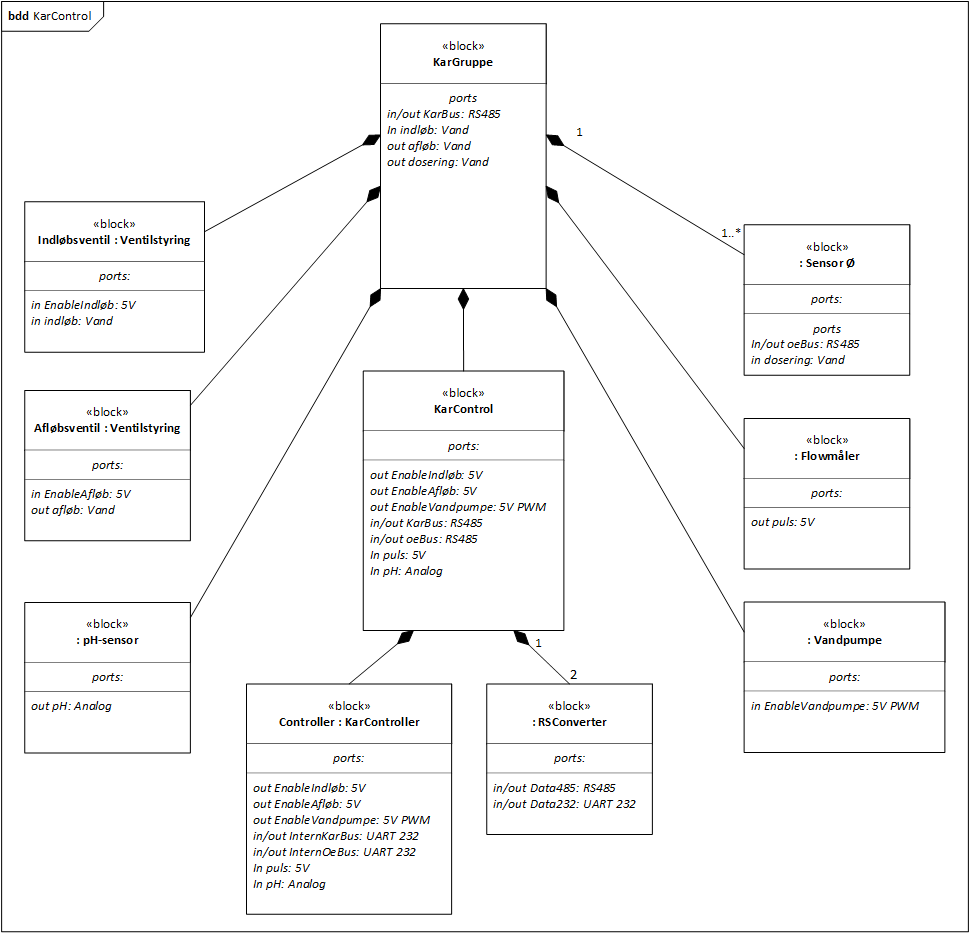
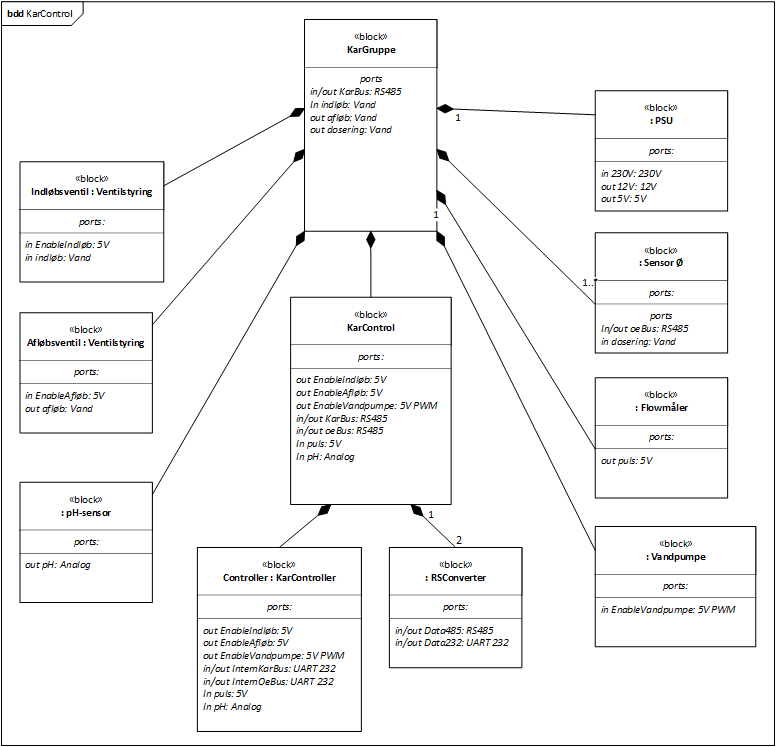
Travis CI

diff --git a/Systemarkitektur/KarControl/KarControl.tex b/Systemarkitektur/KarControl/KarControl.tex
@@ -21,6 +21,9 @@ Vandpumpen pumper vand fra karret ud til Sensor Ø’erne.
 \subsubsection{Flowmåler}
 Flowmåleren måler mængden af vand, som tilføres karret gennem Indløbsventilen.
 
+\subsubsection{PSU}
+PSU (Power Supply Unit) forsyner de andre blokke med 12V og 5V.
+
 \subsection{KarControl IBD}
 \systemIBD{0.82}{KarControl}{KarControl}
 
@@ -30,27 +33,34 @@ RSConverter konverterer mellem RS485 og UART 232 når der skal kommunikeres med 
 \subsubsection{RSOut}
 RSConverter konverterer mellem RS485 og UART 232 når der skal kommunikeres med Sensor Ø'er.
 
+\subsection{KarControlForsyning IBD}
+Der er lavet et separat forsynings IBD som viser forbindelserne fra blokken PSU til resten af blokkene og omverdenen.
+\begin{figure}[H]
+	\centering
+	\includegraphics[scale=0.7]{Systemarkitektur/KarControl/KarControlForsyning_IBD.png}
+	\label{fig:KarControlForsyning}
+	\caption{IBD over forsyningsforbindelser til KarControl}
+\end{figure}
+
 %\subsection{KarControl Allokeringsdiagram}
 %\systemAllokeringsDiagram{0.82}{KarControl}{KarControl}
 
+\fxnote{Forsyningsspændinger skal have tolerancer}
 \subsection{Signalbeskrivelser KarControl}
 \systemSignaler{KarControl} {
-KarBus				& RS485 bus til kommunikation mellem enheder & Binary 1 (OFF)
-																   (Voa-Vob<-200 mV)
-																   Binary 0 (ON)
-																  (Voa-Vob>+200 mV)	 	& Differentielt bussystem \\
-OeBus				& RS485 bus til kommunikation mellem enheder & Binary 1 (OFF)
-																   (Voa-Vob<-200 mV)
-																   Binary 0 (ON)
-																  (Voa-Vob>+200 mV)	 	& Differentielt bussystem \\
-Data485				& RS485 bus til kommunikation mellem enheder & Intern:SW-signal		& Internt signal fra RSconverter til KarGruppe \\
-Data232				& RS485 konverteret til logisk niveau		 & Intern:SW-signal 	& Konverteret signal fra RSconverter til Controller  \\
-EnableIndløb		& Signal til at lukke vand ind i kar		 & Logisk:0-5V			& Signal til styring af Indløbsventil   \\
-EnableAfløb			& Signal til at lukke vand ud af kar		 & Logisk:0-5V			& Signal til styring af Afløbsventil   \\
-EnableVandpumpe		& Signal til styring Vandpumpe		   	     & Logisk:PWM 0-5V 		& Signal til PWM-styring af Vandpumpe	\\
-Puls				& Takttæller af flow				   	 	 & Logisk:0-5V 			& Retursignal fra flowtæller \\
-pH					& Analog signal fra pH måler			 	 & Analog:-420mV-420mV  & Analogt sensorsignal \\
-Indløb				& vandstyring i kar							 & Vandflow   			& Vandtilførsel til karret \\
-Afløb				& vandstyring i kar	 						 & Vandflow  			& Vandtilafledning fra karret \\
-Dossering			& vandstyring til planter					 & Vandflow    			& Vandtilførsel til dosering \\
+KarBus				& RS485 bus til kommunikation mellem enheder &	 	& Differentielt bussystem  \\
+OeBus				& RS485 bus til kommunikation mellem enheder &	 	& Differentielt bussystem  \\
+Data485				& RS485 bus til kommunikation mellem enheder &	 	& internt signal   \\
+Data232				& RS485 konverteret til logisk niveau		 &	 	& Signal efter konvertering  \\
+EnableIndløb		& Signal til at lukke vand ind i kar		 & 0-5V	& Signal til at styre magnetventil   \\
+EnableAfløb			& Signal til at lukke vand ud af kar		 & 0-5V	& Signal til at styre magnetventil	\\
+EnableVandpumpe		& Signal til styring af vandpumpe			   	     & 0-5V & PWM styret signal	\\
+Puls				& Takttæller af flow				   	 	 & 0-5V & 	\\
+pH					& Analog signal fra pH måler			 	 & fra -420 til 420 mV  & Analogt signal	\\
+Indløb				& vandstyring i kar							 &    	& Til at lukke vand ind i kar	\\
+Afløb				& vandstyring i kar	 						 &   	& Til at lukke vand ud af kar	\\
+Dossering			& vandstyring til planter					 &      & Til at dosere vand til planterne	\\
+230V				& El-nettet som forsyner PSU				 & 230V	& \\
+12V					& Forsyning til pumper og ventiler			 & 12V	& \\
+5V					& Forsyning til systemets logiske kredsløb	 & 5V	& \\
 }

diff --git a/Systemarkitektur/Systemarkitektur.tex b/Systemarkitektur/Systemarkitektur.tex
@@ -10,7 +10,7 @@ Alle	& 0.1	 	& 17-03-2015  \\
 }
 
 \section{System diagrammer}
-\fixme{Der skal laves software diagrammer til system arkitektur - applikationsmodel sekvens diagrammer state machines osv. }
+\fxnote{Der skal laves software diagrammer til system arkitektur - applikationsmodel sekvens diagrammer state machines osv. }
 
 \input{Systemarkitektur/System/System}
 
@@ -45,10 +45,6 @@ Alle	& 0.1	 	& 17-03-2015  \\
 \newpage
 \section{Vandpumpestyring diagrammer}
 \input{Systemarkitektur/Vandpumpestyring/Vandpumpestyring}
-
-\newpage
-\section{RS485 Converter diagrammer}
-\fixme{Der skal laves diagrammer for RS485 converter}
 
 \newpage
 \section{Teknologi undersøgelser}

diff --git a/HardwareArkitektur/RSConverter/RSConverter.tex b/HardwareArkitektur/RSConverter/RSConverter.tex
@@ -1,0 +1,12 @@
+%!TEX root = ../../main.tex
+\section{RSConverter}
+RS485-bussen er valgt til at kommunikere på, se hvorfor i teknologiundersøgelsen. Til dette formål er udformet et simpelt kredsløb vha. MAX3082. Det logiske 0-5V UART-signal fra PSoC 4 konverteres til et differentielt signal, som kører ud på bussen, og vice versa.
+
+\begin{figure}[H]
+	\centering
+	\includegraphics[scale=1]{../Hardware/RS485_Converter/Schematic}
+	\caption{RS485 converter}
+	\label{photo:RS485converter}
+\end{figure}
+
+\fxnote{Scopebilleder, forklaringer osv.}

diff --git a/HardwareArkitektur/HardwareArkitektur.tex b/HardwareArkitektur/HardwareArkitektur.tex
@@ -8,6 +8,6 @@
 		& 		&   \\
 		& 	 	&   \\
 }
-%RS485 Converter diagrammer og detaljeret beskrivelse
+%RSCConverter diagrammer og detaljeret beskrivelse
 \newpage
-\input{HardwareArkitektur/RS485_Converter/RS485_Converter}
+\input{HardwareArkitektur/RSConverter/RSConverter}
